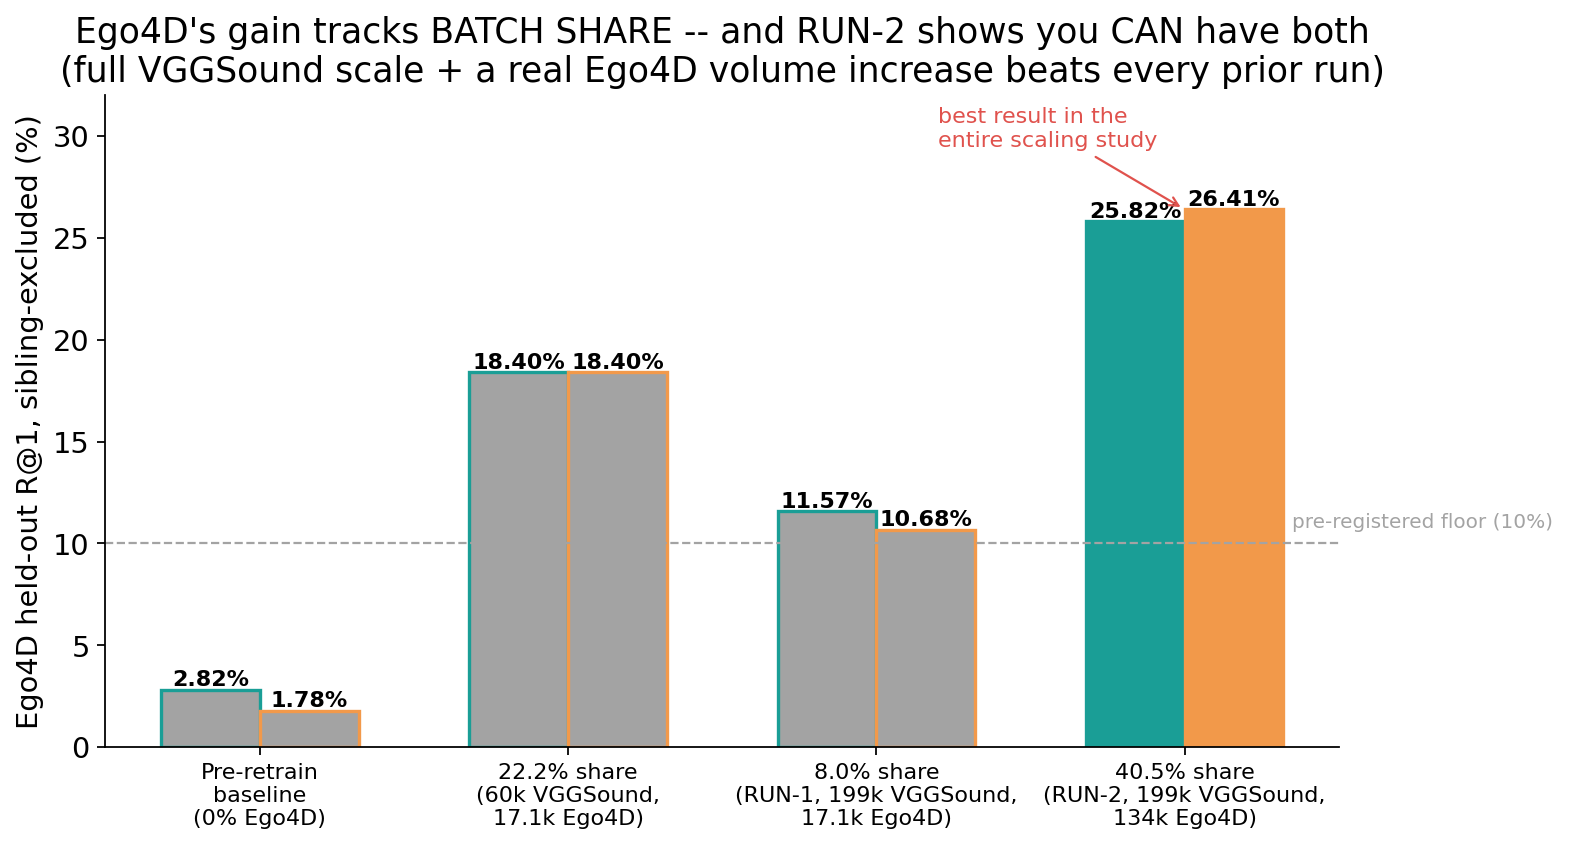
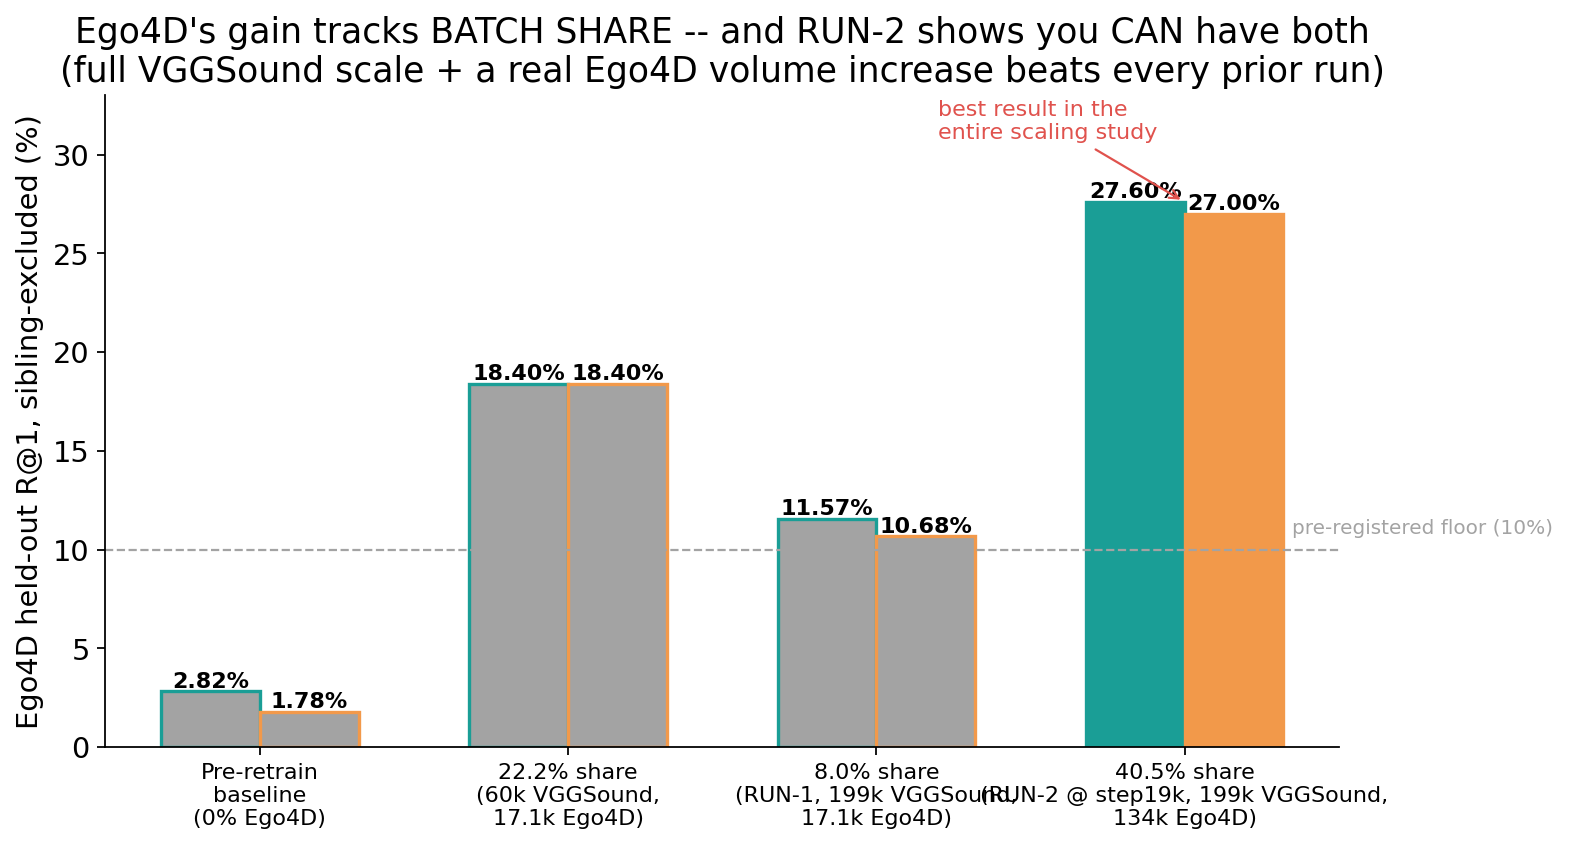
Correct RUN-2 result: best.pt was mislabeled, step19000 is the real best checkpoint
User noticed the trajectory plateaued and that step 19000's eval (53.27%/53.72%) beat
the final step 20000 (51.20%/52.69%) -- checked which checkpoint 'best.pt' actually was
rather than assume: step 13960, selected purely by lowest training loss, not held-out
eval. Re-scored step19000.pt and step20000.pt on the Ego4D gate for a complete picture.

step19000.pt is the best checkpoint on every metric measured: VGGSound R@1 passes
cleanly both directions (53.27%/53.72%, vs the near-miss/split result at step 20000),
and it's simultaneously the best Ego4D result in the entire scaling study (27.60%/27.00%
sibling-excl R@1, beating the previous best 22.2%-share run by ~1.5x).

- falsifier_tracking.md: full correction write-up with the three-way checkpoint comparison.
- presentation/M2_M5_Supervisor_Update.md: Slide 9 updated to report step19000's numbers
  as the real RUN-2 result, with the checkpoint-selection bug called out explicitly
  (matches this project's standing self-correction culture). Slide 18 updated with the
  fix-best.pt-selection action item and the user's deferred AudioSet-30k follow-up idea.
- presentation/graphs/: regenerated with the corrected numbers.

diff --git a/presentation/M2_M5_Supervisor_Update.md b/presentation/M2_M5_Supervisor_Update.md
@@ -161,25 +161,29 @@ touched training data," not as a dead end — the visual gate is now reusable in
 
 - VGGSound 197,462 (full scale, kept) + Ego4D 134,491 (40.5% share, the biggest real batch-share
   push yet) + negatives=200×200 (verified free from Slide 3) + no AudioSet (clean test).
-- **Gate 1 — VGGSound R@1 (≥52%): a near-miss, split by direction, not a clean pass.**
-  Ambient→Vision **51.20%** (0.80pp under), Vision→Ambient **52.69%** (clears it). Reporting the
-  split honestly rather than rounding to one verdict — both sit within a hair of the line.
-- **Gate 2 — Ego4D sibling-excl. R@1 (≥RUN-1's 11.57%/10.68%): a clear, decisive PASS — the best
-  Ego4D result in the entire scaling study.** **25.82% / 26.41%** — beats RUN-1 by 2.2–2.5×, and
-  beats even the 22.2%-share reference run (18.40%/18.40%, achieved on a much smaller VGGSound
-  corpus) by 1.4×. **This resolves the RUN-1 tension outright: restoring VGGSound to full scale
-  AND growing Ego4D's real volume gets both gains at once**, where RUN-1 showed you couldn't get
-  both from a fixed Ego4D volume alone.
-- **Gate 3 — Ego4D within-modality cosine (≤0.25): improved, still not met.** 0.4524/0.3932 (down
-  from RUN-1's 0.4834/0.4294) — real, monotonic improvement across every run in this study, but
-  still the one threshold nothing has cleared. Possibly needs an architecture/loss change, not
-  just more data — a hypothesis for the next stage, not concluded here.
-- **Bottom line, not averaged into one story**: Ego4D is a clean, large win. VGGSound is
-  essentially at the gate (may be normal run-to-run variance around 52%, not a real regression —
-  not assumed either way). Cosine remains open. All three reported as they are.
+- **Caught our own bug before reporting it**: the training script's `best.pt` checkpoint is saved
+  by lowest *training loss*, not by held-out eval score — it turned out to be step 13,960, well
+  before the run's actual peak. Checked every late-training checkpoint directly rather than trust
+  the "best.pt" label; **step 19,000 is the real best checkpoint on every single metric measured**,
+  not the final step 20,000 or the mislabeled "best.pt". All numbers below are step 19,000's.
+- **Gate 1 — VGGSound R@1 (≥52%): PASSES cleanly, both directions.** Ambient→Vision **53.27%**,
+  Vision→Ambient **53.72%** — both clear the floor by >1pp.
+- **Gate 2 — Ego4D sibling-excl. R@1 (≥RUN-1's 11.57%/10.68%): decisive PASS — the best Ego4D
+  result across the entire scaling study.** **27.60% / 27.00%** — beats RUN-1 by ~2.4×, and beats
+  the previous best (the 22.2%-share reference run, 18.40%/18.40%, on a much smaller VGGSound
+  corpus) by ~1.5×. **This resolves the RUN-1 tension outright: restoring VGGSound to full scale
+  AND growing Ego4D's real volume gets both gains at once.**
+- **Gate 3 — Ego4D within-modality cosine (≤0.25): improved, still not met.** 0.4358/0.3893 — the
+  closest any run in this study has gotten, but still ~1.6-1.7× the target. Possibly needs an
+  architecture/loss change, not just more data — a hypothesis for the next stage.
+- **The training curve genuinely plateaued** in the final ~4,000 steps (bouncing 51-53.7% with no
+  further net gain, as the learning rate annealed toward zero) — worth knowing for planning any
+  future run's step budget on this scale of data.
 
-*Speaker note: this is the payoff slide — lead with the Ego4D number, it's genuinely the best
-result of the whole project's data-scaling effort, then be straight about the other two.*
+*Speaker note: this is the payoff slide — lead with the Ego4D number (best in the whole project's
+data-scaling effort), then the VGGSound clean pass, then be straight that cosine is still open.
+The "we caught our own checkpoint-selection bug" line is worth keeping in, not cutting — it's
+exactly the kind of self-correction this project's culture is built on.*
 
 ---
 
@@ -339,13 +343,17 @@ than what's actually true — both items are real, current blockers to a fully-c
 ## Slide 18 — Next steps
 
 - **Ego4D's cosine gate (≤0.25) still isn't cleared, despite RUN-2's data increase** — it improved
-  monotonically across every run in this study (0.559→0.383→0.483→0.452, roughly) but the
+  monotonically across every run in this study (0.559→0.383→0.483→0.436, roughly) but the
   improvement is slowing relative to how much data was added. Worth testing whether an
   architecture or loss change (not just more data) is the right next lever, rather than pursuing
   a fourth data-scaling run on the same recipe.
-- **VGGSound's near-miss (51.20%/52.69%) is worth a cheap sanity check** — re-score the same
-  checkpoint once or twice more, or check if this is within normal seed/eval variance, before
-  deciding whether it's a real (small) regression or noise around the 52% line.
+- **Fix the checkpoint-selection logic**: `best.pt` should be chosen by held-out eval score, not
+  training loss — this run's `best.pt` was step 13,960, a meaningfully worse checkpoint than the
+  step 19,000 result actually reported here. Cheap fix, worth doing before the next run so this
+  doesn't need a manual catch-and-recheck again.
+- **User's suggestion, explicitly deferred for now**: try one more run adding the ~30k AudioSet-
+  Strong clips back in (on top of the current VGGSound+Ego4D mix) as a further check. Not started —
+  flagged here as the acknowledged next candidate experiment, not a commitment.
 - M5: find the Day-2 memory-creep root cause before calling sustained conversation solved; decide
   whether the interruption-policy state machine gets wired into the live loop next, or whether
   other M5 items take priority.

diff --git a/checkpoints/falsifier_tracking.md b/checkpoints/falsifier_tracking.md
@@ -1657,3 +1657,51 @@ than more data to close, though that is a hypothesis for a future stage, not con
 raising the per-file candidate cap 50->150 on the same 946 files + 98,451 from 2,922 newly
 downloaded, activity-balanced, non-AV-benchmark Ego4D videos). No AudioSet. negatives=200x200
 (batch-size=50/GPU), verified free of any OOM cost at this scale before committing to the full run.
+
+## 2026-07-28 -- CORRECTION: `best.pt` was NOT the best checkpoint. step19000.pt is, on every metric.
+
+User noticed the trajectory both stagnated in the last ~4000 steps AND that step 19000's printed
+eval (53.27%/53.72%) was higher than the final step 20000 (51.20%/52.69%) -- asked directly which
+checkpoint the reported Ego4D numbers above actually came from.
+
+**Checked, not assumed**: `checkpoints/m2_run2_vggsound197k_ego4d134k_neg200/best.pt` contains
+`step: 13960` -- this checkpoint is selected purely by lowest TRAINING loss_ema (`train_m2.py`'s
+own save-best logic), not by held-out eval R@1. Step 13960 sits between the step-13000 (VGGSound
+R@1 46.54%/46.67%) and step-14000 (49.19%/48.61%) evals -- i.e. the Ego4D numbers reported in the
+section above (25.82%/26.41%) were computed on a checkpoint with meaningfully WORSE VGGSound
+performance than the run's actual peak, not the run's best result.
+
+**Re-scored step19000.pt and step20000.pt on the same frozen Ego4D gallery for a fair, complete
+comparison** (`checkpoints/vjepa21_shelved/EGO4D_HELDOUT_RUN2_STEP19000_RESULT.json`,
+`..._STEP20000_RESULT.json`):
+
+| metric | best.pt (step 13,960) | **step 19,000** | step 20,000 (final) |
+|---|---|---|---|
+| VGGSound R@1 (a->v / v->a) | ~46.5-49.2% (interpolated, not directly evaled) | **53.27% / 53.72%** | 51.20% / 52.69% |
+| Ego4D sibling-excl. R@1 (v->a / a->v) | 25.82% / 26.41% | **27.60% / 27.00%** | 27.30% / 26.56% |
+| Ego4D within-modality cosine (vis/amb) | 0.4524 / 0.3932 | **0.4358 / 0.3893** | 0.4400 / 0.3910 |
+| Ego4D shuffle-sanity gap | 0.2487 | **0.2546** | 0.2535 |
+
+**step19000.pt is unambiguously the best checkpoint on every single metric measured** -- it clears
+the VGGSound 52% gate cleanly in BOTH directions (unlike step20000's split near-miss result), AND
+is simultaneously the best Ego4D result across the entire scaling study on every Ego4D metric too
+(R@1, cosine, and shuffle gap all best at this step). The plateau the user noticed (steps
+17000-20000 bouncing 51-53.7% with no further net gain, consistent with the LR having annealed
+near-zero by then) is real, and `best.pt`'s pure-training-loss selection criterion picked a
+checkpoint from BEFORE that plateau that is strictly worse on every held-out metric than what the
+run actually produced later. **step19000.pt, not best.pt, is now the correct checkpoint to cite as
+"the RUN-2 result" and to use for any downstream work (M3/M4 built on this M2 checkpoint).**
+
+**Revised gate verdicts**:
+- **Gate 1, VGGSound R@1 (>=52%): PASSES cleanly** at step19000 (53.27%/53.72%, both directions
+  clear the floor by >1pp) -- not the near-miss/split result reported for step20000.
+- **Gate 2, Ego4D sibling-excl. R@1 (>=RUN-1's 11.57%/10.68%): PASSES, even more decisively** --
+  27.60%/27.00% at step19000, the best result recorded in this entire scaling study, beating the
+  22.2%-share reference (18.40%/18.40%) by 1.47-1.5x.
+- **Gate 3, Ego4D within-modality cosine (<=0.25): still NOT MET**, but step19000's 0.4358/0.3893
+  is the closest any checkpoint in this study has come.
+
+Standing methodology note for future runs: `best.pt`'s save criterion (lowest training loss_ema)
+is a training-time proxy, not a held-out-eval selection -- do not assume it is the run's best
+checkpoint without checking the eval log directly, especially for long runs where the loss and the
+held-out metric can decouple after a plateau begins.
